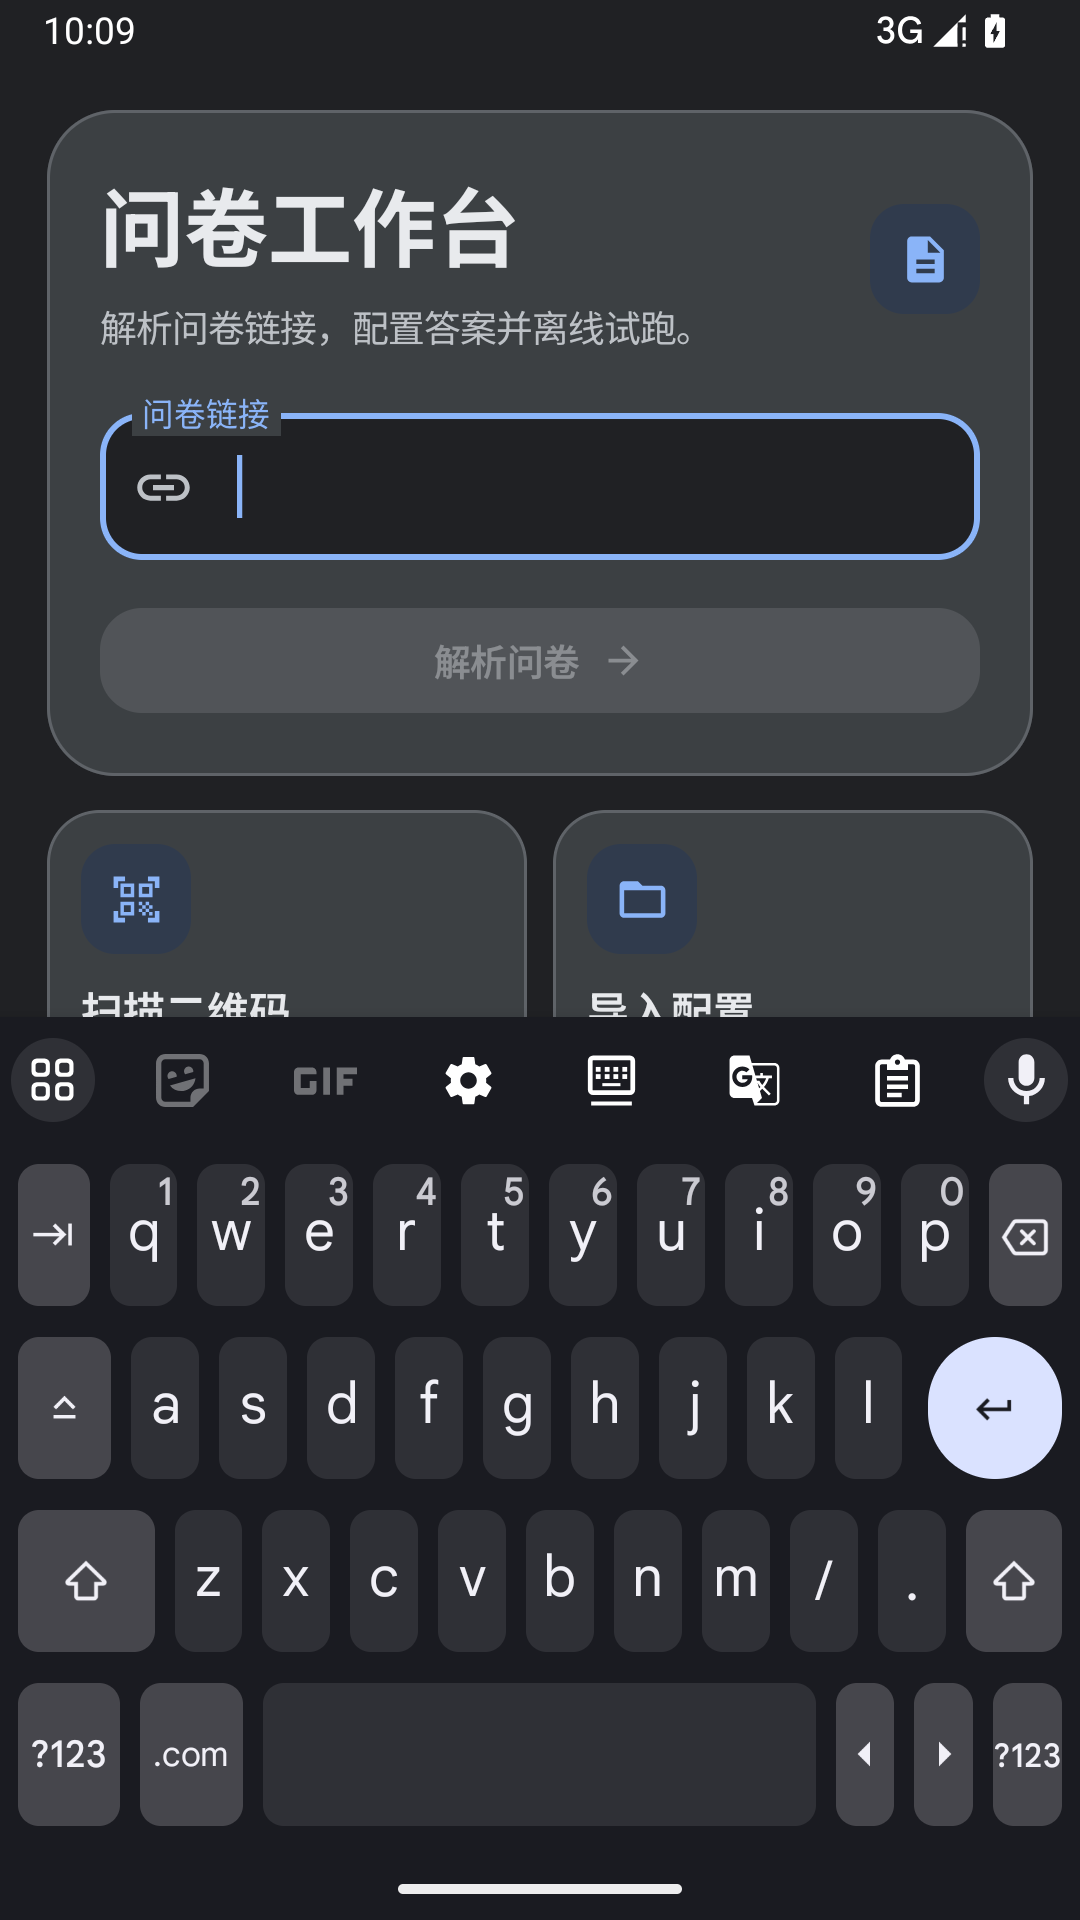
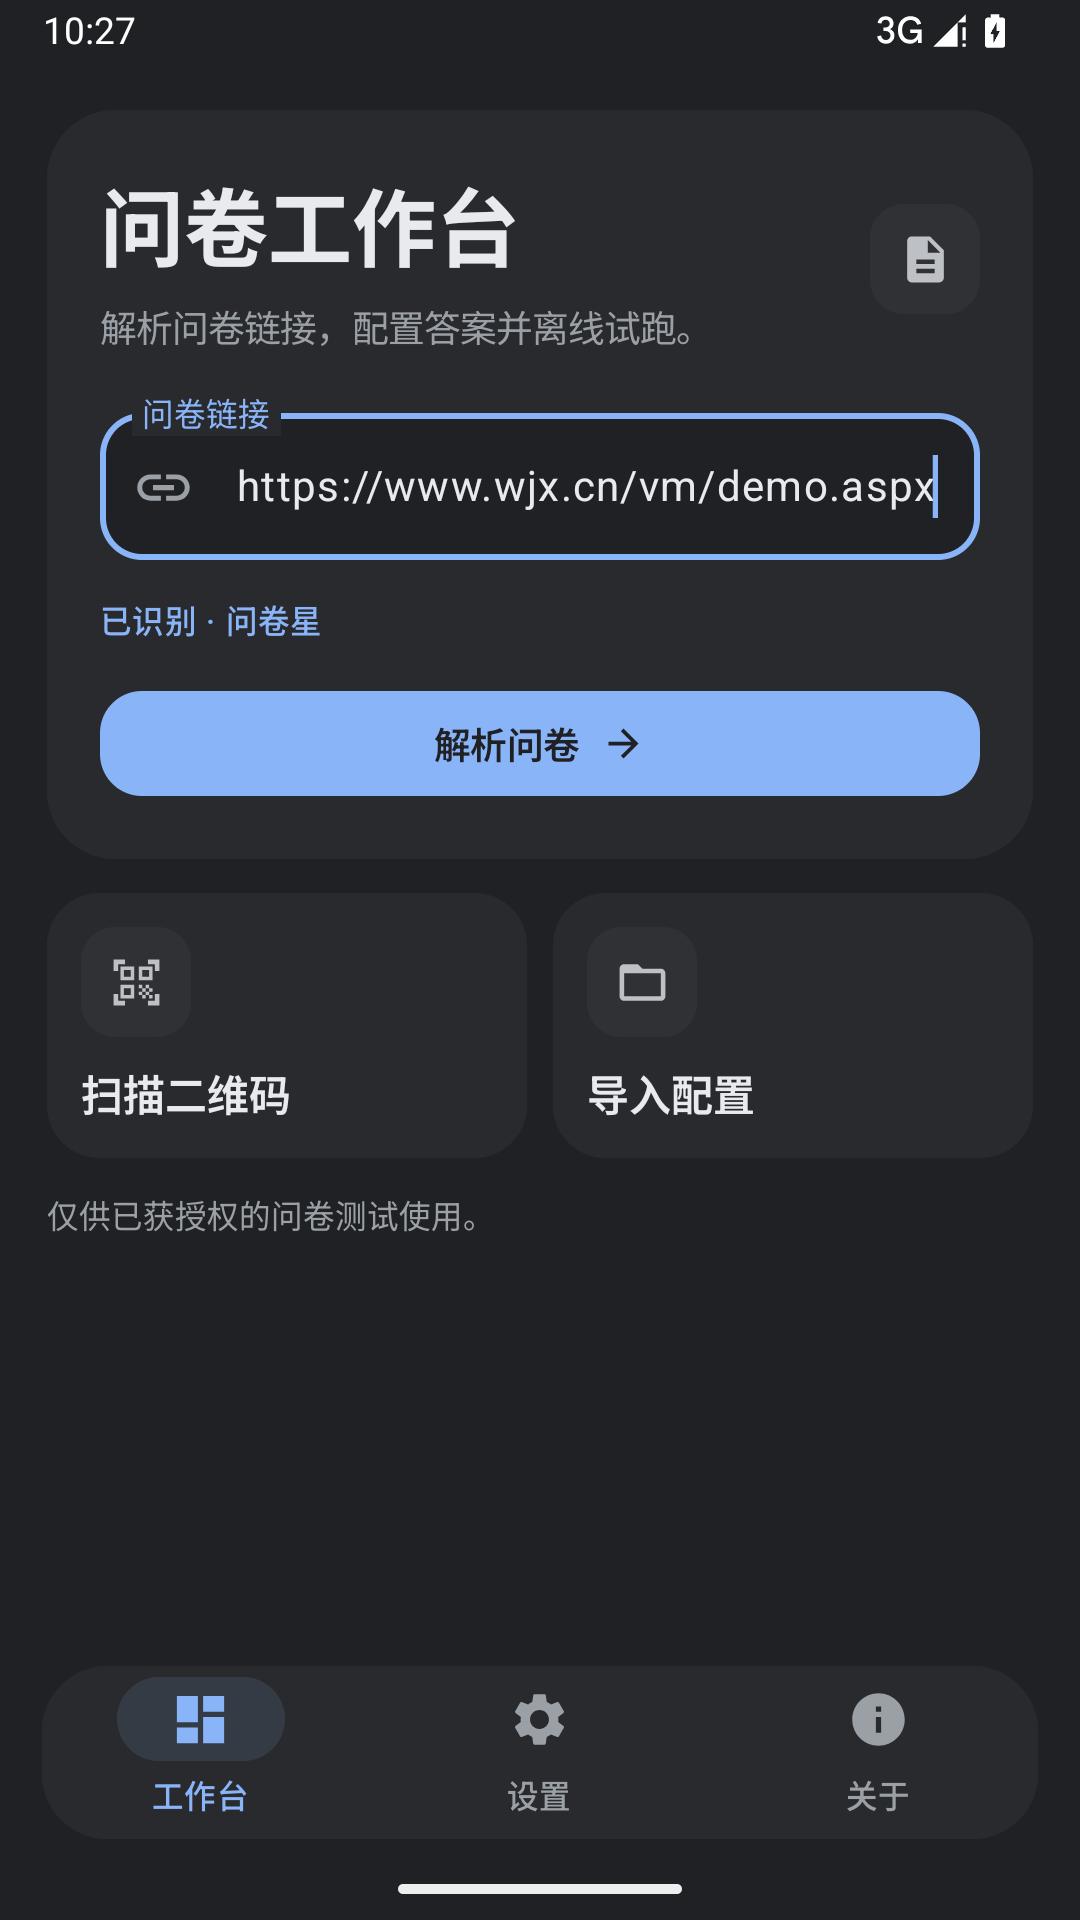
fix: 按 Chromium 深色角色调整配色

diff --git a/app/src/main/java/com/surveycontroller/android/ui/components/Studio.kt b/app/src/main/java/com/surveycontroller/android/ui/components/Studio.kt
@@ -15,8 +15,6 @@ import androidx.compose.foundation.layout.size
 import androidx.compose.foundation.shape.RoundedCornerShape
 import androidx.compose.material.icons.Icons
 import androidx.compose.material.icons.automirrored.filled.ArrowBack
-import androidx.compose.material3.ButtonColors
-import androidx.compose.material3.ButtonDefaults
 import androidx.compose.material3.Card
 import androidx.compose.material3.CardColors
 import androidx.compose.material3.CardDefaults
@@ -28,7 +26,6 @@ import androidx.compose.material3.Text
 import androidx.compose.material3.TopAppBar
 import androidx.compose.material3.TopAppBarDefaults
 import androidx.compose.runtime.Composable
-import androidx.compose.runtime.remember
 import androidx.compose.ui.Alignment
 import androidx.compose.ui.Modifier
 import androidx.compose.ui.graphics.Color
@@ -44,52 +41,41 @@ internal val distributionColors = listOf(
 )
 
 @Composable
-internal fun studioActionColors(): ButtonColors = if (LocalChromeDarkTheme.current) {
-    ButtonDefaults.buttonColors(containerColor = ChromeDarkColors.action, contentColor = Color.White)
-} else {
-    ButtonDefaults.buttonColors()
-}
-
-@Composable
 internal fun studioSuccessColor(): Color =
     if (LocalChromeDarkTheme.current) ChromeDarkColors.success else Color(0xFF237246)
 
 @Composable
 internal fun Modifier.studioFeature(): Modifier {
     val shape = MaterialTheme.shapes.extraLarge
-    val container = if (LocalChromeDarkTheme.current) ChromeDarkColors.panel else MaterialTheme.colorScheme.surfaceContainerLow
-    return background(container, shape)
-        .border(1.dp, MaterialTheme.colorScheme.outlineVariant, shape)
+    val surface = background(MaterialTheme.colorScheme.surfaceContainerLow, shape)
+    return if (LocalChromeDarkTheme.current) surface
+    else surface.border(1.dp, MaterialTheme.colorScheme.outlineVariant, shape)
 }
 
 @Composable
 internal fun StudioCard(
     modifier: Modifier = Modifier,
     colors: CardColors = CardDefaults.cardColors(
-        containerColor = if (LocalChromeDarkTheme.current) ChromeDarkColors.panel else MaterialTheme.colorScheme.surfaceContainerLow,
+        containerColor = MaterialTheme.colorScheme.surfaceContainerLow,
     ),
-    border: BorderStroke? = BorderStroke(1.dp, MaterialTheme.colorScheme.outlineVariant),
+    border: BorderStroke? = if (LocalChromeDarkTheme.current) null else BorderStroke(1.dp, MaterialTheme.colorScheme.outlineVariant),
     content: @Composable ColumnScope.() -> Unit,
 ) {
-    Card(modifier = modifier, shape = MaterialTheme.shapes.large, colors = colors, border = border) {
-        if (LocalChromeDarkTheme.current) {
-            val scheme = MaterialTheme.colorScheme
-            val panelScheme = remember(scheme) { scheme.copy(error = ChromeDarkColors.errorOnPanel) }
-            MaterialTheme(colorScheme = panelScheme) { content() }
-        } else {
-            content()
-        }
-    }
+    Card(modifier = modifier, shape = MaterialTheme.shapes.large, colors = colors, border = border, content = content)
 }
 
 @Composable
 internal fun StudioEmblem(icon: ImageVector) {
     val shape = RoundedCornerShape(13.dp)
+    val chromeDark = LocalChromeDarkTheme.current
+    val colors = MaterialTheme.colorScheme
+    val background = if (chromeDark) ChromeDarkColors.emblem else colors.primaryContainer
+    val foreground = if (chromeDark) ChromeDarkColors.emblemInk else colors.onPrimaryContainer
     Box(
-        Modifier.size(42.dp).background(MaterialTheme.colorScheme.primaryContainer, shape),
+        Modifier.size(42.dp).background(background, shape),
         contentAlignment = Alignment.Center,
     ) {
-        Icon(icon, contentDescription = null, tint = MaterialTheme.colorScheme.onPrimaryContainer,
+        Icon(icon, contentDescription = null, tint = foreground,
             modifier = Modifier.size(21.dp))
     }
 }
@@ -123,7 +109,7 @@ internal fun StudioTopBar(
             Column {
                 Text(title, style = MaterialTheme.typography.titleLarge, maxLines = 1, overflow = TextOverflow.Ellipsis)
                 if (subtitle != null) Text(subtitle, style = MaterialTheme.typography.bodySmall,
-                    color = if (chromeDark) ChromeDarkColors.muted else MaterialTheme.colorScheme.onSurfaceVariant,
+                    color = MaterialTheme.colorScheme.onSurfaceVariant,
                     maxLines = 1, overflow = TextOverflow.Ellipsis)
             }
         },

diff --git a/app/src/main/java/com/surveycontroller/android/ui/theme/Theme.kt b/app/src/main/java/com/surveycontroller/android/ui/theme/Theme.kt
@@ -51,16 +51,17 @@ private val LightColors = lightColorScheme(
 internal object ChromeDarkColors {
     val canvas = Color(0xFF202124)
     val toolbar = Color(0xFF292A2D)
-    val panel = Color(0xFF3C4043)
-    val outline = Color(0xFF5F6368)
+    val panel = toolbar
+    val popup = Color(0xFF2D2E31)
+    val emblem = Color(0xFF303134)
+    val outline = Color(0xFF454649)
+    val separator = Color(0xFF3E3F42)
     val text = Color(0xFFE8EAED)
     val muted = Color(0xFF9AA0A6)
-    val mutedOnPanel = Color(0xFFBDC1C6)
+    val emblemInk = Color(0xFFBDC1C6)
     val accent = Color(0xFF8AB4F8)
-    val selection = Color(0xFF303B4D)
-    val action = Color(0xFF1A73E8)
+    val selection = Color(0xFF353B45)
     val error = Color(0xFFF28B82)
-    val errorOnPanel = Color(0xFFF6A39B)
     val success = Color(0xFF81C995)
 }
 
@@ -75,7 +76,7 @@ private val DarkColors = darkColorScheme(
     onSecondary = ChromeDarkColors.canvas,
     secondaryContainer = ChromeDarkColors.selection,
     onSecondaryContainer = ChromeDarkColors.accent,
-    tertiary = ChromeDarkColors.mutedOnPanel,
+    tertiary = ChromeDarkColors.muted,
     onTertiary = ChromeDarkColors.canvas,
     tertiaryContainer = ChromeDarkColors.toolbar,
     onTertiaryContainer = ChromeDarkColors.text,
@@ -83,16 +84,16 @@ private val DarkColors = darkColorScheme(
     onBackground = ChromeDarkColors.text,
     surface = ChromeDarkColors.canvas,
     onSurface = ChromeDarkColors.text,
-    surfaceTint = ChromeDarkColors.panel,
-    surfaceVariant = ChromeDarkColors.toolbar,
-    onSurfaceVariant = ChromeDarkColors.mutedOnPanel,
+    surfaceTint = Color.Transparent,
+    surfaceVariant = ChromeDarkColors.emblem,
+    onSurfaceVariant = ChromeDarkColors.muted,
     surfaceContainerLowest = ChromeDarkColors.canvas,
-    surfaceContainerLow = ChromeDarkColors.toolbar,
-    surfaceContainer = ChromeDarkColors.toolbar,
-    surfaceContainerHigh = ChromeDarkColors.panel,
-    surfaceContainerHighest = ChromeDarkColors.panel,
+    surfaceContainerLow = ChromeDarkColors.panel,
+    surfaceContainer = ChromeDarkColors.panel,
+    surfaceContainerHigh = ChromeDarkColors.popup,
+    surfaceContainerHighest = ChromeDarkColors.popup,
     outline = ChromeDarkColors.outline,
-    outlineVariant = ChromeDarkColors.outline,
+    outlineVariant = ChromeDarkColors.separator,
     inverseSurface = ChromeDarkColors.text,
     inverseOnSurface = ChromeDarkColors.canvas,
     inversePrimary = Color(0xFF185ABC),

diff --git a/app/src/main/java/com/surveycontroller/android/ui/screens/SettingsScreen.kt b/app/src/main/java/com/surveycontroller/android/ui/screens/SettingsScreen.kt
@@ -58,7 +58,6 @@ import com.surveycontroller.android.ui.components.StudioEmblem
 import com.surveycontroller.android.ui.components.StudioHeading
 import androidx.compose.material.icons.filled.Settings
 import androidx.compose.material3.HorizontalDivider
-import com.surveycontroller.android.ui.components.studioActionColors
 
 @Composable
 fun SettingsScreen(viewModel: MainViewModel, onOpenIpUsage: () -> Unit = {}) {
@@ -186,7 +185,7 @@ fun SettingsScreen(viewModel: MainViewModel, onOpenIpUsage: () -> Unit = {}) {
                 Text("尚未激活随机 IP 账号。可使用额度卡密直接激活；服务端已停止发放免费试用，旧版“领取试用”可能失败。", style = MaterialTheme.typography.bodySmall)
             }
             Row(Modifier.padding(top = 8.dp), horizontalArrangement = Arrangement.spacedBy(8.dp), verticalAlignment = Alignment.CenterVertically) {
-                if (!sess.authenticated) Button(colors = studioActionColors(), onClick = viewModel::activateTrial, enabled = !account.busy) { Text("激活 / 领取") }
+                if (!sess.authenticated) Button(onClick = viewModel::activateTrial, enabled = !account.busy) { Text("激活 / 领取") }
                 else OutlinedButton(onClick = viewModel::refreshQuota, enabled = !account.busy) { Text("同步额度") }
                 OutlinedButton(onClick = viewModel::checkBackendStatus, enabled = !account.busy) { Text("服务状态") }
                 if (account.busy) CircularProgressIndicator(modifier = Modifier.size(20.dp), strokeWidth = 2.dp)
@@ -200,7 +199,6 @@ fun SettingsScreen(viewModel: MainViewModel, onOpenIpUsage: () -> Unit = {}) {
                 singleLine = true,
             )
             Button(
-                colors = studioActionColors(),
                 onClick = { viewModel.redeemCard(cardCode); cardCode = "" },
                 enabled = !account.busy && cardCode.isNotBlank(),
                 modifier = Modifier.padding(top = 4.dp),

diff --git a/app/src/main/java/com/surveycontroller/android/ui/screens/HomeScreen.kt b/app/src/main/java/com/surveycontroller/android/ui/screens/HomeScreen.kt
@@ -52,8 +52,6 @@ import com.surveycontroller.android.ui.components.studioFeature
 import java.text.SimpleDateFormat
 import java.util.Date
 import java.util.Locale
-import com.surveycontroller.android.ui.components.studioActionColors
-import com.surveycontroller.android.ui.theme.ChromeDarkColors
 import com.surveycontroller.android.ui.theme.LocalChromeDarkTheme
 
 @Composable
@@ -93,7 +91,7 @@ fun HomeScreen(viewModel: MainViewModel, onConfigure: () -> Unit, onScan: () -> 
                     colors = OutlinedTextFieldDefaults.colors(
                         focusedContainerColor = MaterialTheme.colorScheme.surfaceContainerLowest,
                         unfocusedContainerColor = MaterialTheme.colorScheme.surfaceContainerLowest,
-                        unfocusedBorderColor = MaterialTheme.colorScheme.outlineVariant,
+                        unfocusedBorderColor = if (LocalChromeDarkTheme.current) MaterialTheme.colorScheme.outline else MaterialTheme.colorScheme.outlineVariant,
                     ),
                     maxLines = 3,
                 )
@@ -108,7 +106,6 @@ fun HomeScreen(viewModel: MainViewModel, onConfigure: () -> Unit, onScan: () -> 
                     )
                 }
                 Button(
-                    colors = studioActionColors(),
                     onClick = viewModel::parse,
                     enabled = !state.parsing && input.isNotEmpty(),
                     shape = MaterialTheme.shapes.medium,
@@ -171,7 +168,7 @@ fun HomeScreen(viewModel: MainViewModel, onConfigure: () -> Unit, onScan: () -> 
             Text(
                 "仅供已获授权的问卷测试使用。",
                 style = MaterialTheme.typography.bodySmall,
-                color = if (LocalChromeDarkTheme.current) ChromeDarkColors.muted else MaterialTheme.colorScheme.onSurfaceVariant,
+                color = MaterialTheme.colorScheme.onSurfaceVariant,
             )
         }
     }

diff --git a/app/src/main/java/com/surveycontroller/android/ui/screens/AboutScreen.kt b/app/src/main/java/com/surveycontroller/android/ui/screens/AboutScreen.kt
@@ -42,7 +42,6 @@ import com.surveycontroller.android.ui.MainViewModel
 import com.surveycontroller.android.ui.components.ZoomableImageDialog
 import com.surveycontroller.android.ui.components.StudioCard
 import com.surveycontroller.android.ui.components.studioFeature
-import com.surveycontroller.android.ui.components.studioActionColors
 
 private data class Contributor(val name: String, val url: String)
 
@@ -118,7 +117,7 @@ fun AboutScreen(viewModel: MainViewModel) {
                                 Text("发现新版本 ${u.latestVersion}（当前 ${u.currentVersion}）", style = MaterialTheme.typography.bodyMedium, color = MaterialTheme.colorScheme.primary)
                                 if (u.releaseNotes.isNotBlank()) Text(u.releaseNotes.take(300), style = MaterialTheme.typography.bodySmall, modifier = Modifier.padding(top = 6.dp))
                                 Row(Modifier.padding(top = 8.dp), horizontalArrangement = Arrangement.spacedBy(8.dp)) {
-                                    u.apkDownloadUrl?.let { apk -> Button(colors = studioActionColors(), onClick = { open(apk) }) { Text("下载 APK") } }
+                                    u.apkDownloadUrl?.let { apk -> Button(onClick = { open(apk) }) { Text("下载 APK") } }
                                     OutlinedButton(onClick = { open(u.releaseUrl) }) { Text("前往发行页") }
                                 }
                             }

diff --git a/app/src/main/java/com/surveycontroller/android/ui/screens/OfflineRehearsalDialog.kt b/app/src/main/java/com/surveycontroller/android/ui/screens/OfflineRehearsalDialog.kt
@@ -37,7 +37,6 @@ import com.surveycontroller.android.ui.components.StudioCard
 import com.surveycontroller.android.ui.components.StudioEmblem
 import androidx.compose.material.icons.Icons
 import androidx.compose.material.icons.filled.Checklist
-import com.surveycontroller.android.ui.components.studioActionColors
 import com.surveycontroller.android.ui.theme.ChromeDarkColors
 import com.surveycontroller.android.ui.theme.LocalChromeDarkTheme
 
@@ -61,7 +60,7 @@ internal fun OfflineRehearsalDialog(
         Surface(
             modifier = Modifier.fillMaxWidth(0.94f).fillMaxHeight(0.90f),
             shape = MaterialTheme.shapes.extraLarge,
-            color = if (LocalChromeDarkTheme.current) ChromeDarkColors.panel else MaterialTheme.colorScheme.background,
+            color = if (LocalChromeDarkTheme.current) ChromeDarkColors.popup else MaterialTheme.colorScheme.background,
         ) {
             LazyColumn(contentPadding = PaddingValues(16.dp), verticalArrangement = Arrangement.spacedBy(8.dp)) {
                 item {
@@ -93,7 +92,6 @@ internal fun OfflineRehearsalDialog(
                 }
                 item {
                     Button(
-                        colors = studioActionColors(),
                         enabled = seed != null && !generating,
                         onClick = {
                             if (seed != null) {

diff --git a/app/src/main/java/com/surveycontroller/android/ui/screens/RunScreen.kt b/app/src/main/java/com/surveycontroller/android/ui/screens/RunScreen.kt
@@ -42,8 +42,6 @@ import com.surveycontroller.android.ui.components.StudioCard
 import com.surveycontroller.android.ui.components.studioFeature
 import com.surveycontroller.android.ui.components.StudioTopBar
 import com.surveycontroller.android.ui.components.studioSuccessColor
-import com.surveycontroller.android.ui.theme.ChromeDarkColors
-import com.surveycontroller.android.ui.theme.LocalChromeDarkTheme
 
 @OptIn(ExperimentalMaterial3Api::class)
 @Composable
@@ -90,10 +88,9 @@ private fun OverviewCard(p: com.surveycontroller.android.core.engine.RunProgress
         }
         Row(Modifier.fillMaxWidth(), horizontalArrangement = Arrangement.spacedBy(8.dp)) {
             Stat("成功", p.success.toString(), Modifier.weight(1f), valueColor = studioSuccessColor())
-            val errorText = if (LocalChromeDarkTheme.current) ChromeDarkColors.errorOnPanel else MaterialTheme.colorScheme.error
             Stat(
                 "失败", p.fail.toString(), Modifier.weight(1f),
-                valueColor = if (p.fail > 0) errorText else MaterialTheme.colorScheme.onSurface,
+                valueColor = if (p.fail > 0) MaterialTheme.colorScheme.error else MaterialTheme.colorScheme.onSurface,
             )
             Stat("目标", p.target.toString(), Modifier.weight(1f))
         }

diff --git a/app/src/main/java/com/surveycontroller/android/ui/screens/ScanScreen.kt b/app/src/main/java/com/surveycontroller/android/ui/screens/ScanScreen.kt
@@ -50,7 +50,6 @@ import androidx.compose.ui.graphics.Color
 import androidx.compose.ui.graphics.StrokeCap
 import com.surveycontroller.android.ui.components.StudioEmblem
 import com.surveycontroller.android.ui.components.StudioTopBar
-import com.surveycontroller.android.ui.components.studioActionColors
 
 @OptIn(ExperimentalMaterial3Api::class, ExperimentalPermissionsApi::class)
 @Composable
@@ -81,7 +80,7 @@ fun ScanScreen(onResult: (String) -> Unit, onBack: () -> Unit) {
                     StudioEmblem(Icons.Filled.QrCodeScanner)
                     Text("允许相机访问", style = MaterialTheme.typography.headlineSmall)
                     Text("打开相机后即可扫描问卷二维码。", color = MaterialTheme.colorScheme.onSurfaceVariant)
-                    Button(colors = studioActionColors(), onClick = { permission.launchPermissionRequest() }) { Text("授予相机权限") }
+                    Button(onClick = { permission.launchPermissionRequest() }) { Text("授予相机权限") }
                 }
             }
         }

diff --git a/app/src/main/java/com/surveycontroller/android/ui/screens/ConfigureScreen.kt b/app/src/main/java/com/surveycontroller/android/ui/screens/ConfigureScreen.kt
@@ -87,7 +87,6 @@ import kotlinx.coroutines.Dispatchers
 import kotlinx.coroutines.withContext
 import java.net.URL
 import kotlin.math.roundToInt
-import com.surveycontroller.android.ui.components.studioActionColors
 import com.surveycontroller.android.ui.theme.ChromeDarkColors
 import com.surveycontroller.android.ui.theme.LocalChromeDarkTheme
 import com.surveycontroller.android.ui.components.studioSuccessColor
@@ -149,7 +148,6 @@ fun ConfigureScreen(viewModel: MainViewModel, onBack: () -> Unit, onRun: () -> U
                                 shape = MaterialTheme.shapes.medium,
                             ) { Text("离线试跑") }
                             Button(
-                                colors = studioActionColors(),
                                 onClick = if (section == ConfigSection.CHECK) onRun else { { section = ConfigSection.CHECK } },
                                 modifier = Modifier.weight(1.3f).height(48.dp),
                                 shape = MaterialTheme.shapes.medium,

diff --git a/app/src/main/java/com/surveycontroller/android/ui/screens/AnswerRulesScreen.kt b/app/src/main/java/com/surveycontroller/android/ui/screens/AnswerRulesScreen.kt
@@ -35,7 +35,6 @@ import com.surveycontroller.android.ui.MainViewModel
 import com.surveycontroller.android.ui.components.StudioCard
 import com.surveycontroller.android.ui.components.StudioTopBar
 import com.surveycontroller.android.ui.components.StudioHeading
-import com.surveycontroller.android.ui.components.studioActionColors
 
 /**
  * 条件规则可视化编辑器：当条件题选中/未选某些选项时，约束目标题必选/禁选某些选项。
@@ -132,7 +131,6 @@ private fun RuleBuilder(questions: List<QuestionConfigDraft>, onAdd: (Map<String
             OptionChips(targetQ, targetOpts)
 
             Button(
-                colors = studioActionColors(),
                 onClick = {
                     val rule = mutableMapOf<String, Any?>(
                             "condition_question_num" to conditionQ.num,

diff --git a/app/src/main/java/com/surveycontroller/android/ui/components/ZoomableImageDialog.kt b/app/src/main/java/com/surveycontroller/android/ui/components/ZoomableImageDialog.kt
@@ -136,7 +136,6 @@ fun ZoomableImageDialog(drawableRes: Int, fileName: String, onDismiss: () -> Uni
                     horizontalArrangement = Arrangement.spacedBy(8.dp),
                 ) {
                     Button(
-                        colors = studioActionColors(),
                         onClick = {
                             if (!saving) {
                                 saving = true
